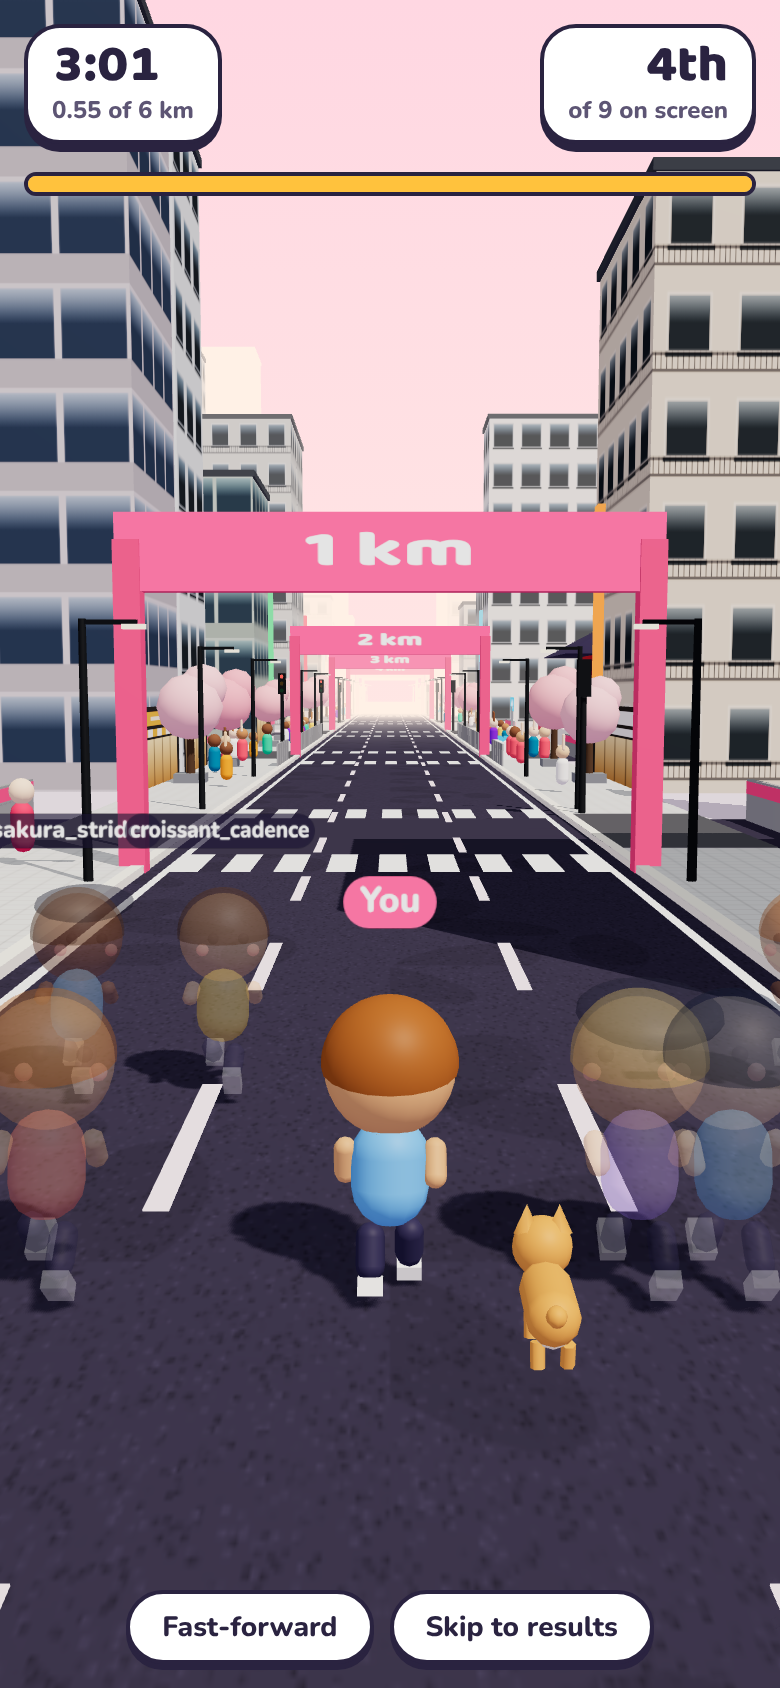
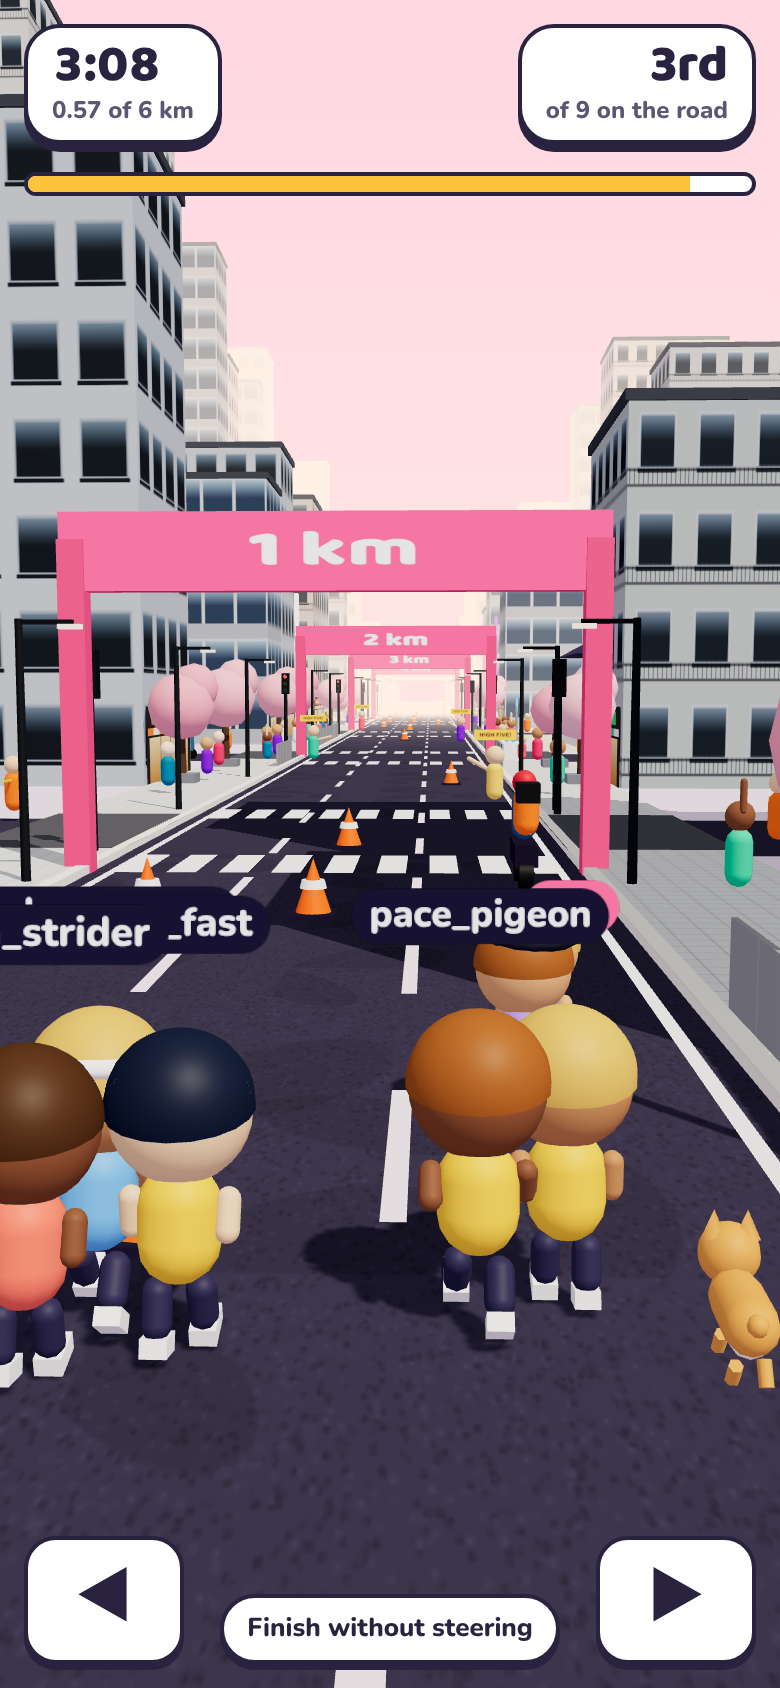
Update README and Devpost kit for steering and real-runner crashes

diff --git a/docs/SUBMISSION.md b/docs/SUBMISSION.md
@@ -12,7 +12,7 @@ Everything needed to submit Chibi City Marathon to
 - [ ] A public demo subreddit (for example r/ChibiCityMarathon) with the app installed.
 - [ ] Today's stage post exists (install trigger, or the mod menu item **Post today's marathon stage**), and the
       scheduler has created posts for a few days in a row so judges see the daily loop.
-- [ ] Ask 8 to 15 friends to run the stage on several days, so the leaderboard, ghosts and crew bar are alive.
+- [ ] Ask 8 to 15 friends to run the stage on several days, so the leaderboard, the road and the crew bar are busy.
       Ask them to share their results in the comments too.
 - [ ] Pin the subreddit's welcome post with one line on how to play and a link to today's stage.
 - [ ] Open the demo post on a phone and in a desktop browser, logged in and logged out. Everything should fit in
@@ -28,8 +28,8 @@ Everything needed to submit Chibi City Marathon to
 
 **Elevator pitch (under 200 characters):**
 
-> Plan your pace, then race a 6 km stage through Tokyo, Paris or Hanoi with your chibi and pet. One new stage a day,
-> and the whole subreddit runs ten marathons together.
+> Plan your pace, then steer your chibi through a 6 km city stage past cones, fans and today's real runners. Crash and
+> you both fall. One new stage a day.
 
 **Links:**
 
@@ -58,8 +58,16 @@ city a week, seven stages each. Each stage has its own hills, water stations, a 
 heat, rain, headwind or tailwind), and everyone gets exactly the same conditions.
 
 You plan the race in about 30 seconds: tap each kilometre to choose Easy, Steady or Push and pick your water stops.
-A live stamina line shows where you would run out. Then you watch your runner race it in 3D, from behind, down a
-closed avenue with crowds, km gantries and the landmark, alongside the ghosts of the day's fastest redditors.
+A live stamina line shows where you would run out. Then you race it in 3D, from behind your runner, down a closed
+avenue with three lanes. Swipe or tap to change lanes: cones, puddles and dropped cups cost seconds, and fans at the
+barrier give you a high five and a burst of speed.
+
+The other runners on the road are today's real players, running exactly the lanes and pace they ran. You cannot run
+through them: run into one, or let one run into you, and you both fall and lose a beat (4 seconds). The crash is
+real on both sides: the other player's official time, splits and leaderboard place change too, and both result cards
+list it in a race report. The landmark of the stage comes into view on the way, and the city lives around you:
+traffic queues at the marshals and turns round, crowds wave, a TV motorbike films the leaders and confetti falls at
+the finish.
 
 The result is a race bib: your rank among today's runners, your time and splits, your streak and the badges you
 earned. One tap shares it to the comments, where the pinned strategy thread is already arguing about where to push.
@@ -77,14 +85,16 @@ Pets and outfits never change race times.
   a canvas-drawn facade module repeated by UV, tinted per building and merged per material, so a whole city costs a
   handful of draw calls on a phone. Each city has its own look: glass towers and vertical signs in Tokyo,
   Haussmann blocks with slate roofs in Paris, narrow colourful tube houses with balconies and cables in Hanoi.
-- The race is a deterministic stamina simulation shared by client and server. The client previews stamina while you
-  plan; the server re-runs the plan to record the official time, so nobody can post a fake result.
-- Hono API on Devvit's serverless runtime with Redis: daily leaderboards in sorted sets, ghost runs, crew progress,
-  profiles, streaks and cheers.
+- The race is shared code run by both sides: a stamina simulation for the pace plan, and a fixed-step race engine for
+  lanes, course items and collisions. The client steps it live while you steer and sends only your plan and lane
+  changes. The server replays the race step by step with the same course and the same runners and records the time
+  it gets, so nobody can post a fake result, and it writes each crash into the other runner's record.
+- Hono API on Devvit's serverless runtime with Redis: daily leaderboards in sorted sets, every runner's track (time at
+  each km and lane changes), crew progress, profiles, streaks and cheers.
 - The Devvit scheduler posts each day's stage with a pinned strategy comment. Results are shared as comments,
   City Finishers get a user flair, and Devvit Journeys track start, plan, finish and every interaction.
 - A local harness runs the real API with an in-memory Redis and a browser mock of the client SDK, so the whole game
-  can be played and tested without Reddit: 32 unit tests and a 19-check Playwright run cover the full loop.
+  can be played and tested without Reddit: 51 unit tests and a 22-check Playwright run cover the full loop.
 
 **Challenges we ran into**
 
@@ -95,6 +105,9 @@ Pets and outfits never change race times.
 - A third-person camera in a narrow portrait post: landmarks sit beside the road, outside the view. The camera now
   widens and pans gently on the approach, and the race slows down while you pass.
 - Keeping a dense 3D city fast on phones: merged geometry, instanced lane marks and no texture downloads.
+- Making crashes feel real but fair in an asynchronous daily game: everyone lines up across the three lanes at the
+  start, there are no crashes in the first 500 m, nobody runs into someone who is still getting up, and both runners
+  lose the same beat.
 
 **Accomplishments that we're proud of**
 
@@ -113,18 +126,19 @@ sub-communities racing as clubs, and premium cosmetics through Reddit's payments
 
 ## 3. Demo video script (about 2 minutes)
 
-| Time | Show                                                   | Say                                                                                    |
-| ---- | ------------------------------------------------------ | -------------------------------------------------------------------------------------- |
-| 0:00 | The feed card in the subreddit                         | "Every day, one new stage of a city marathon, right in your Reddit feed."              |
-| 0:08 | Tap Run, the plan screen                               | "Each stage has hills, water stops and the day's weather. Same for everyone."          |
-| 0:20 | Tap km buttons, gold line drops, "walking!" appears    | "Push is fast but drains stamina. Push too much and you walk."                         |
-| 0:35 | Start the race, third-person run with ghosts and crowd | "Your chibi and your pet race it in 3D, against the ghosts of today's runners."        |
-| 0:55 | The landmark moment and the km gantries                | "Each stage passes a landmark: today, the Forest Shrine in Tokyo."                     |
-| 1:10 | Finish, the race bib                                   | "Your result is a race bib: rank, time, splits, streak."                               |
-| 1:20 | Share to comments, the comment thread                  | "Share it, compare plans in the strategy thread, cheer another runner."                |
-| 1:35 | Crew bar                                               | "Every run adds 6 km to the subreddit's goal: ten marathons in each city, every week." |
-| 1:45 | Locker: outfits and pets                               | "Streaks and city finishes unlock outfits and pets. They never change your time."      |
-| 1:55 | Paris and Hanoi races                                  | "Next week, Paris. Then Hanoi. See you at the start line tomorrow."                    |
+| Time | Show                                                | Say                                                                                        |
+| ---- | --------------------------------------------------- | ------------------------------------------------------------------------------------------ |
+| 0:00 | The feed card in the subreddit                      | "Every day, one new stage of a city marathon, right in your Reddit feed."                  |
+| 0:08 | Tap Run, the plan screen                            | "Each stage has hills, water stops and the day's weather. Same for everyone."              |
+| 0:20 | Tap km buttons, gold line drops, "walking!" appears | "Push is fast but drains stamina. Push too much and you walk."                             |
+| 0:35 | Countdown, steering past cones, a high five         | "Then you run it. Swipe to change lanes, dodge cones, high-five the crowd."                |
+| 0:45 | Crash into another runner, both fall                | "These are today's real runners. Crash into one and you both fall, and both times change." |
+| 0:55 | The landmark moment and the km gantries             | "Each stage passes a landmark: today, the Forest Shrine in Tokyo."                         |
+| 1:10 | Finish, the race bib                                | "Your result is a race bib: rank, time, splits, streak."                                   |
+| 1:20 | Share to comments, the comment thread               | "Share it, compare plans in the strategy thread, cheer another runner."                    |
+| 1:35 | Crew bar                                            | "Every run adds 6 km to the subreddit's goal: ten marathons in each city, every week."     |
+| 1:45 | Locker: outfits and pets                            | "Streaks and city finishes unlock outfits and pets. They never change your time."          |
+| 1:55 | Paris and Hanoi races                               | "Next week, Paris. Then Hanoi. See you at the start line tomorrow."                        |
 
 ## 4. Screenshots for the gallery
 
@@ -132,10 +146,10 @@ In `docs/screenshots/` (portrait, 2x):
 
 1. `01-feed-card.png`: the inline post in the feed
 2. `02-race-plan.png`: planning the race
-3. `03-race-tokyo.png`: the third-person race with ghosts
+3. `03-race-tokyo.png`: the third-person race with today's runners and a crash
 4. `04-landmark-hanoi.png`: the landmark moment in Hanoi
-5. `05-race-paris.png`: Paris
-6. `06-result-bib.png`: the race bib result
+5. `05-race-hanoi-obstacles.png`: cones, a high-five fan and the TV motorbike in Hanoi
+6. `06-result-bib.png`: the race bib result with the race report
 7. `07-locker-pets.png`: pets in the locker
 
 Retake them on Reddit itself once the demo subreddit is live, so judges see the real post chrome.

diff --git a/README.md b/README.md
@@ -1,8 +1,9 @@
 # Chibi City Marathon
 
 A daily running game for Reddit. Every day the subreddit gets one new 6 km stage through the streets of a famous
-city. You plan your pace, watch your chibi runner race it in 3D against the ghosts of everyone who ran before you,
-and add your kilometres to the crew's shared goal: ten marathons in each city, one city a week.
+city. You plan your pace, then steer your chibi runner down a busy 3D avenue: dodge cones and puddles, high-five fans,
+and get past the other redditors who ran today without crashing into them. Every finish adds to the crew's shared goal:
+ten marathons in each city, one city a week.
 
 Built on [Devvit Web](https://developers.reddit.com/docs/capabilities/devvit-web/devvit_web_overview) for
 [Reddit's Daily Games Hackathon](https://redditgameofday2026.devpost.com/).
@@ -17,8 +18,10 @@ Built on [Devvit Web](https://developers.reddit.com/docs/capabilities/devvit-web
    same stage and the same weather that day.
 2. **Plan your pace.** Tap each kilometre to switch between Easy, Steady and Push, and choose where to stop for water.
    The gold line shows your stamina. Push too hard and you will walk.
-3. **Race.** A third-person 3D run down a closed city avenue: crowds, km gantries, water tables, the landmark,
-   and the ghosts of other redditors running the same stage.
+3. **Race.** A third-person run down a closed city avenue with three lanes. Swipe, tap ◀ ▶ or use the arrow keys to
+   change lanes. Cones, puddles and dropped cups cost seconds; high fives from the crowd give a burst of speed.
+   The other runners on the road are today's real players, running exactly where they ran. Run into one, or let one
+   run into you, and you **both fall and lose 4 seconds**, and the crash is written into both official times.
 4. **Share and come back.** Your result is a race bib with your rank. Share it to the comments, cheer another runner,
    keep your streak, and help the crew finish the city.
 
@@ -28,11 +31,19 @@ One counted run per person per day. A new stage opens at 00:00 UTC.
 
 - **Daily stages:** 3 cities (Tokyo, Paris, Hanoi) x 7 stages, rotating weekly, with 5 weather types picked by a
   date-seeded random so everyone gets the same conditions.
-- **Strategy, not reflexes:** a deterministic stamina model (pace, grade, weather, water) decides your time. The server
-  re-simulates every plan, so times cannot be faked.
+- **Strategy first, then steering:** a deterministic stamina model (pace, grade, weather, water) decides most of your
+  time; steering decides the rest (a few dozen seconds at most).
+- **A real field, real crashes:** today's runners race on the road with you in their own lanes and outfits. Collisions
+  knock both runners down; the other runner's leaderboard time, splits and result card are updated too, with a race
+  report of who ran into whom. Runners line up across all three lanes at the start, and nobody runs into someone who is
+  still getting up.
+- **Cheat-proof:** the client sends only the plan and the lane changes. The server replays the whole race step by step
+  (same course, same runners) and records the time it computes.
 - **Crew marathon:** every runner adds 6 km to the subreddit's goal of ten marathons (421.95 km) per city. When the crew
   finishes, everyone who ran that week gets badges and the city's hat.
-- **Ghost runners:** the day's fastest redditors race beside you, in their own outfits.
+- **A living city:** floor-scale buildings in each city's style, shops, street trees, traffic on the cross streets that
+  queues at the marshals and turns round, waving crowds, birds, balloons, a TV motorbike filming the leaders, confetti
+  at the finish, and a landmark moment on every stage.
 - **Race bib result card:** rank, time, splits, streak and rewards on one screen, with share and cheer buttons.
 - **Locker:** 19 cosmetic items and 4 pets that run with you (corgi, tabby cat, shiba, penguin), earned by streaks,
   city finishes and weather, or bought with badges. Cosmetics never change race times.
@@ -48,7 +59,8 @@ One counted run per person per day. A new stage opens at 00:00 UTC.
 
 ```
 src/
-  shared/     content (cities, stages, weather), sim (stamina model), economy (items, pets, rewards), api types
+  shared/     content (cities, stages, weather), sim (stamina model), course (cones, fans), race (the step-by-step
+              race with lanes and collisions, run by client and server), economy (items, pets, rewards), api types
   server/     core/game.ts (all game rules), core/store.ts (Redis interface + in-memory store), routes, devvit.ts
   client/     splash.tsx (feed card), game.tsx (app), screens/, components/, three/ (city, chibi, world)
   dev/        local harness: the real API with an in-memory Redis and a browser mock of @devvit/web/client
@@ -61,7 +73,7 @@ Requires Node 22+ (Devvit's CLI recommends Node 24).
 
 ```bash
 npm install
-npm run test:unit      # 32 unit tests: simulation, rules, API, daily posts
+npm run test:unit      # 51 unit tests: simulation, race replay, collisions, rules, API, daily posts
 npm run test:types     # TypeScript
 npm run lint
 npm run dev:local      # play the whole game at http://localhost:5178 without Reddit
@@ -71,7 +83,7 @@ The local harness seeds four days of fake runners. Query parameters (kept as coo
 `?user=alice` (empty for a logged-out guest), `?date=2026-11-13`, `?post=t3_dev1`. It also has helpers:
 `POST /__dev/seed`, `POST /__dev/badges?n=1000`, `POST /__dev/crew?meters=400000`, `GET /__dev/state`.
 
-Browser end-to-end check (19 checks, needs Playwright for Python):
+Browser end-to-end check (22 checks, needs Playwright for Python):
 
 ```bash
 npm run dev:local
